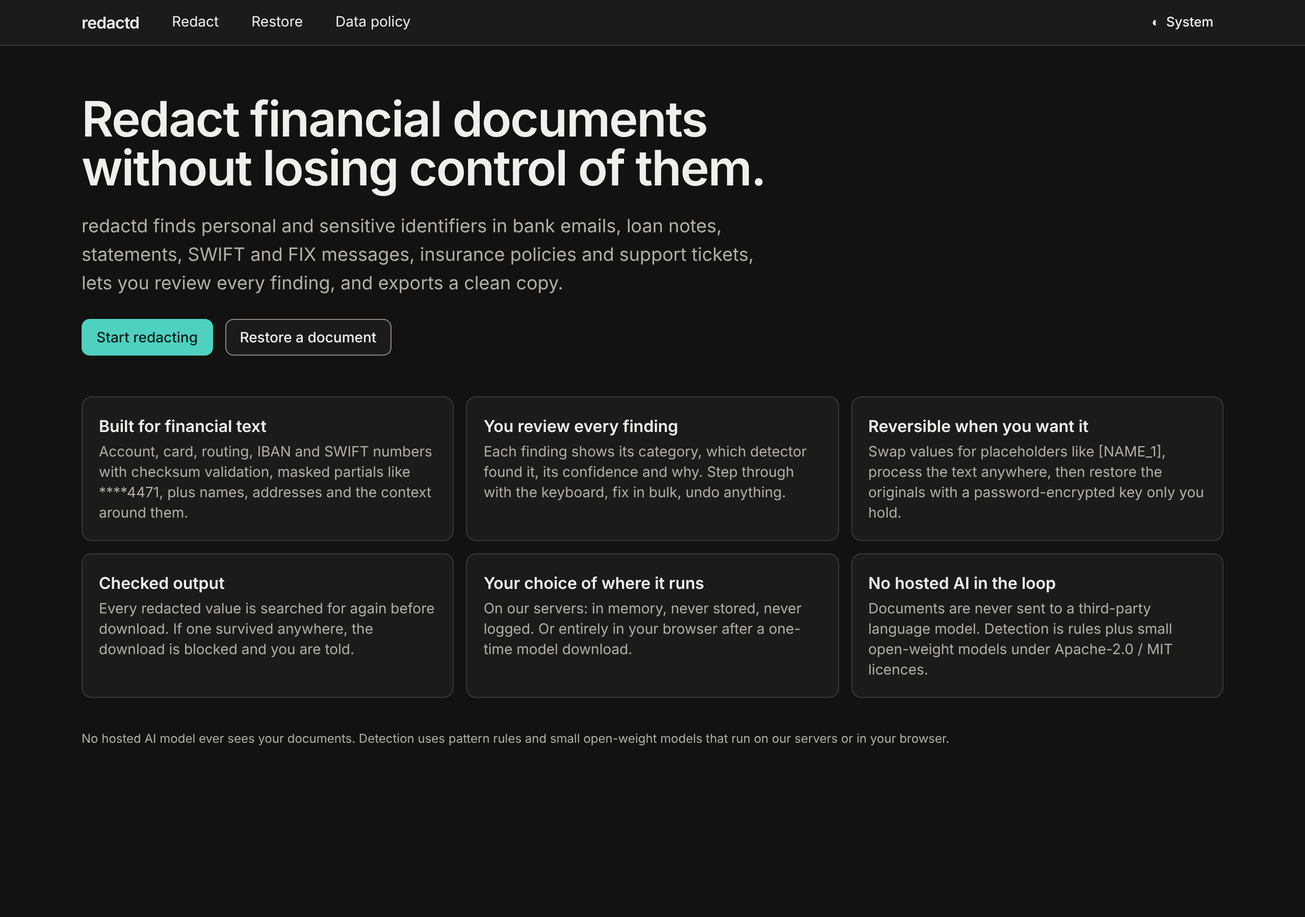
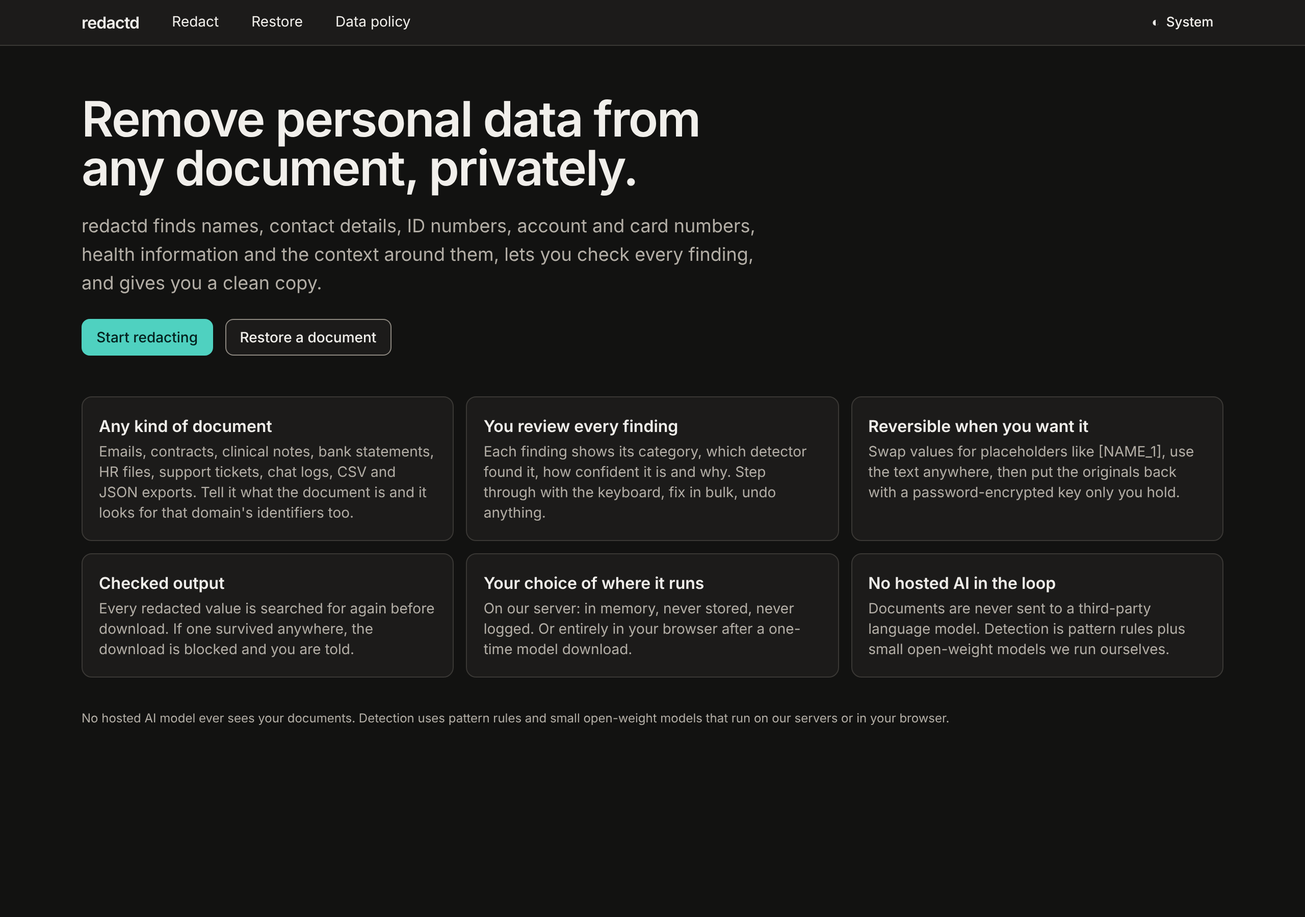
Layout B (minimal, drawers) becomes the only layout; Standard is the default mode; branding for any document
- /redact: one box and a Redact button. Options (mode, where it runs, policy, keep last 4, terms, sensitivity) open in
  a side drawer; review tools (categories, needs-review, values, add as / redact selection) in a second drawer;
  Download + Copy up front, style / report / output preview / restore key under More. Offline and
  server-unreachable notices moved into the options drawer.
- Default mode Standard (meets the 10 KB latency target; Thorough is opt-in).
- The search box takes focus the moment it opens (typed letters could otherwise trigger shortcuts).
- Landing page, metadata and README now present redactd for any kind of document.
- e2e: shared helpers (e2e/ui.cjs); flow, quality (axe on both drawers too), device and screenshot scripts updated.
Evidence: flow e2e PASS (Standard); quality e2e PASS (0 axe violations, 1 MB: 0 long tasks); 26 web unit tests.

Claude-Session: https://claude.ai/code/session_01PNEx6yyKuppzfPLfRrmmr8

diff --git a/apps/web/app/redact/page.tsx b/apps/web/app/redact/page.tsx
@@ -17,10 +17,9 @@ import { hasModel, modelMegabytes } from "../../lib/models";
 import type { DetectMode, OutputStyle, PiiType, ReviewSpan, Span, WorkerResponse } from "../../lib/types";
 import { Viewer, type ViewerHandle } from "../../components/Viewer";
 import { Sidebar } from "../../components/Sidebar";
-import { PolicyPanel } from "../../components/PolicyPanel";
-import { DataPanel, type Where } from "../../components/DataPanel";
+import type { Where } from "../../components/DataPanel";
 import { ShortcutOverlay } from "../../components/Shortcuts";
-import { Dialog, Progress, Segmented, Steps, Switch } from "../../components/ui";
+import { Dialog, Progress, Segmented, Switch } from "../../components/ui";
 import { PRESETS, parseTerms } from "../../lib/presets";
 
 const MAX_BYTES = 1_000_000;
@@ -43,14 +42,8 @@ export default function RedactPage() {
   // ---- document + settings
   const [text, setText] = useState("");
   const [fileName, setFileName] = useState("document.txt");
-  const [mode, setMode] = useState<DetectMode>("thorough");
-  // UI layout mock-ups (?layout=a|b|c). Without the parameter the page is unchanged. Remove once one is chosen.
-  const [layout, setLayout] = useState<"current" | "a" | "b" | "c">("current");
+  const [mode, setMode] = useState<DetectMode>("standard");   // Standard meets the latency target; Thorough is opt-in
   const [showOptions, setShowOptions] = useState(false), [showDetails, setShowDetails] = useState(false), [showMore, setShowMore] = useState(false);
-  useEffect(() => {
-    const l = new URLSearchParams(window.location.search).get("layout");
-    if (l === "a" || l === "b" || l === "c") { setLayout(l); if (l !== "c") setMode("standard"); }
-  }, []);
   const [where, setWhere] = useState<Where>("server");
   const [policy, setPolicyState] = useState<UserPolicy>(DEFAULT_POLICY);
   const [serverUp, setServerUp] = useState<boolean | null>(null);
@@ -242,23 +235,21 @@ export default function RedactPage() {
     catch { setError("Copying was blocked by the browser. Use Download instead."); }
   }
   const leakFail = !!leaks?.length;
-  const step: 1 | 2 | 3 = !scanned ? 1 : leaks !== null && !leakFail && accepted.length > 0 && review.past.length > 0 ? 3 : 2;
 
-  // ================================================================== building blocks (shared by every layout)
-  const minimal = layout === "a" || layout === "b";
+  // ================================================================== building blocks
   const dropZone = (
     <div onDragOver={(e) => { e.preventDefault(); setDragging(true); }} onDragLeave={() => setDragging(false)}
       onDrop={(e) => { e.preventDefault(); setDragging(false); const f = e.dataTransfer.files?.[0]; if (f) onFile(f); }}
-      className={minimal ? "rounded-xl border-2 border-dashed p-3 sm:p-4" : "rounded-lg border-2 border-dashed p-3 sm:p-4"}
+      className="rounded-xl border-2 border-dashed p-3 sm:p-4"
       style={{ borderColor: dragging ? "var(--accent)" : "var(--border-strong)", background: dragging ? "var(--accent-soft)" : undefined }}>
       <div className="flex flex-wrap items-center gap-3">
         <label className="btn cursor-pointer">
-          {minimal ? "Open file" : "Choose file"}
+          Open file
           <input type="file" className="sr-only" accept=".txt,.md,.csv,.tsv,.json,.jsonl,.log,.eml,.xml,.yaml,.yml,.html,.docx,.pdf,.msg,text/*"
             onChange={(e) => { const f = e.target.files?.[0]; if (f) onFile(f); e.target.value = ""; }} />
         </label>
-        <span className="text-sm muted">{minimal ? "or drop or paste" : "or drop a file here, or paste below"}</span>
-        {!text && <button type="button" className="btn btn-sm sm:ml-auto" onClick={() => resetDoc(SAMPLE_TEXT, SAMPLE_NAME)}>{minimal ? "Try a sample" : "Try the sample document"}</button>}
+        <span className="text-sm muted">or drop or paste</span>
+        {!text && <button type="button" className="btn btn-sm sm:ml-auto" onClick={() => resetDoc(SAMPLE_TEXT, SAMPLE_NAME)}>Try a sample</button>}
         {text && <span className="text-sm sm:ml-auto"><span className="font-medium">{fileName}</span> <span className="muted">· {text.length.toLocaleString("en")} characters</span>{" "}
           <button type="button" className="btn btn-ghost btn-sm" onClick={() => resetDoc("", "document.txt")}>Clear</button></span>}
       </div>
@@ -266,10 +257,9 @@ export default function RedactPage() {
         ? <pre className="mono mt-3 max-h-40 overflow-hidden rounded p-2 text-xs muted" style={{ background: "var(--surface-2)" }} aria-label="Start of the document">{text.slice(0, 1500)}…</pre>
         : <>
             <label htmlFor="doc" className="sr-only">Document text</label>
-            <textarea id="doc" className={`input mono mt-3 ${minimal ? "h-56" : "h-40"}`} placeholder="Paste a statement, email, loan note, SWIFT message, ticket…" value={text} spellCheck={false}
+            <textarea id="doc" className="input mono mt-3 h-56" placeholder="Paste an email, contract, clinical note, statement, chat log, ticket…" value={text} spellCheck={false}
               onChange={(e) => { setText(e.target.value.slice(0, MAX_BYTES)); setScan(null); }} />
           </>}
-      {!text && !minimal && <p className="mt-2 text-xs muted">New here? The sample is a fictional wire-recall email with names, an IBAN, a card number and an SSN. Nothing is uploaded until you press Scan.</p>}
     </div>
   );
   const attachAlert = attach && (
@@ -305,6 +295,10 @@ export default function RedactPage() {
         <Segmented label="Where to process" value={where} onChange={setWhere} options={[{ id: "server", label: "Our server" }, { id: "device", label: "This device" }]} />
         <span className="text-xs muted">{where === "server" ? "In memory, never stored or logged." : `Never leaves this tab. ${modelMb ? `One-time ${modelMb} MB download.` : ""}`}</span>
       </div>
+      {!online && <p className="alert alert-warn text-xs" role="status">You are offline. On-device processing still works if its model was downloaded before.</p>}
+      {online && where === "server" && serverUp === false && (
+        <p className="alert alert-warn text-xs" role="status">The redactd server is not reachable right now. <button type="button" className="link" onClick={() => setWhere("device")}>Process on this device instead</button>.</p>
+      )}
       <div className="flex flex-wrap items-center gap-3">
         <label htmlFor="preset" className="w-24 font-semibold">Policy</label>
         <select id="preset" className="input w-auto" value={policy.presetId} onChange={(e) => setPolicy({ ...policy, presetId: e.target.value })}>
@@ -322,6 +316,7 @@ export default function RedactPage() {
         <p className="mt-2 text-xs muted">Stored in this browser only; never sent to our servers.</p>
       </details>
       {sensitivity}
+      <p className="text-xs muted">Your policy, terms, review decisions, output and restore key stay in this browser. <a href="/privacy" className="link">Data policy</a></p>
     </div>
   );
   const optionsSummary = `${MODES.find((m) => m.id === mode)?.name} · ${where === "server" ? "our server" : "this device"} · ${presetById(policy.presetId).name}${policy.keepLast4 ? " · last 4 kept" : ""}`;
@@ -334,7 +329,7 @@ export default function RedactPage() {
   const searchForm = search !== null && (
     <form className="flex flex-1 items-center gap-2" style={{ minWidth: 220 }} onSubmit={(e) => { e.preventDefault(); doSearch(); }}>
       <label htmlFor="search" className="sr-only">Search the document and redact every match</label>
-      <input id="search" ref={searchBox} className="input" placeholder="Text to redact everywhere…" value={search} onChange={(e) => setSearch(e.target.value)} />
+      <input id="search" ref={searchBox} autoFocus className="input" placeholder="Text to redact everywhere…" value={search} onChange={(e) => setSearch(e.target.value)} />
       <button type="submit" className="btn btn-sm btn-primary" disabled={search.trim().length < 2}>Redact {search.trim().length >= 2 ? searchSpans(text, search, addType).length : 0} matches</button>
       <button type="button" className="btn btn-ghost btn-sm" onClick={() => setSearch(null)}>Close</button>
     </form>
@@ -370,7 +365,7 @@ export default function RedactPage() {
     </pre>
   );
   const styleSeg = <Segmented label="Output style" value={style} onChange={(s) => setStyleOverride(s)} options={[{ id: "placeholder", label: "Reversible [NAME_1]" }, { id: "label", label: "Labels [NAME]" }, { id: "block", label: "Blocks ████" }]} />;
-  const downloadBtn = result && <button type="button" className="btn btn-primary" disabled={leakFail || leaks === null} onClick={() => download(redactedName(fileName), result.output)}>{minimal ? "Download" : "Download redacted file"}</button>;
+  const downloadBtn = result && <button type="button" className="btn btn-primary" disabled={leakFail || leaks === null} onClick={() => download(redactedName(fileName), result.output)}>Download</button>;
   const copyBtn = <button type="button" className="btn" disabled={leakFail || leaks === null} onClick={copyOut}>{copied ? "Copied ✓" : "Copy"}</button>;
   const reportBtns = (<>
     <button type="button" className="btn" onClick={() => download(`${baseName(fileName)}.redaction-report.md`, reportMarkdown(report()), "text/markdown;charset=utf-8")}>Download report</button>
@@ -396,164 +391,72 @@ export default function RedactPage() {
   const announcer = <p className="sr-only" role="status" aria-live="polite">{announce}</p>;
   const shortcuts = help && <ShortcutOverlay onClose={() => setHelp(false)} />;
 
-  // ================================================================== layouts A and B: minimal
-  if (minimal) {
-    const drawer = layout === "b";
-    return (
-      <div className="mx-auto max-w-4xl space-y-4">
-        <div className="flex items-baseline gap-3">
-          <h1 className="text-2xl font-semibold tracking-tight">Redact</h1>
-          <p className="text-sm muted">Find and remove personal data. Up to 1 MB.</p>
-        </div>
-        {announcer}
-        <section className="space-y-3" aria-labelledby="h-input">
-          <h2 id="h-input" className="sr-only">Add a document</h2>
-          {dropZone}
-          {attachAlert}
-          <div className="flex flex-wrap items-center gap-3">
-            <button type="button" className="btn btn-ghost btn-sm" aria-expanded={showOptions} onClick={() => setShowOptions((v) => !v)}>
-              <span aria-hidden="true">{drawer ? "⚙" : showOptions ? "▾" : "▸"}</span> Options
-            </button>
-            <span className="text-xs muted">{optionsSummary}</span>
-            <span className="ml-auto">{scanButton(scanned ? "Redact again" : "Redact")}</span>
-          </div>
-          {!drawer && showOptions && <div className="card p-4">{compactOptions}</div>}
-          {status}
-        </section>
-
-        {scanned && (
-          <section aria-labelledby="h-review" className="space-y-2">
-            <div className="flex flex-wrap items-center gap-2">
-              <h2 id="h-review" className="text-base font-semibold">{accepted.length} of {spans.length} found items redacted</h2>
-              <span className="sr-only" data-testid="summary">{accepted.length} of {spans.length} findings will be redacted</span>
-              <div className="ml-auto flex flex-wrap items-center gap-2">
-                <button type="button" className="btn btn-sm" onClick={() => dispatch({ type: "undo" })} disabled={!review.past.length}>Undo</button>
-                <button type="button" className="btn btn-sm" aria-pressed={view === "diff"} onClick={() => setView(view === "diff" ? "review" : "diff")}>Compare</button>
-                {search === null && <button type="button" className="btn btn-sm" onClick={openSearch}>Find &amp; redact</button>}
-                <button type="button" className="btn btn-sm" aria-pressed={showDetails} onClick={() => setShowDetails((v) => !v)}>Details</button>
-                <button type="button" className="btn btn-ghost btn-sm" onClick={() => setHelp(true)} aria-label="Keyboard shortcuts">?</button>
-              </div>
-            </div>
-            {searchForm}
-            {diffHeader}
-            {!drawer && showDetails
-              ? <div className="grid grid-cols-[minmax(0,1fr)] gap-3 lg:grid-cols-[minmax(0,1fr)_300px]">{viewerEl}<div className="flex max-h-[640px] min-h-[280px] min-w-0 flex-col lg:h-[min(62vh,640px)]">{sidebarEl}</div></div>
-              : viewerEl}
-            {!drawer && showDetails && addRow}
-          </section>
-        )}
-
-        {scanned && result && (
-          <section ref={exportRef} className="card space-y-3 p-4" aria-labelledby="h-export">
-            <div className="flex flex-wrap items-center gap-2">
-              <h2 id="h-export" className="sr-only">Export</h2>
-              {downloadBtn}{copyBtn}
-              <button type="button" className="btn btn-ghost btn-sm" aria-expanded={showMore} onClick={() => setShowMore((v) => !v)}>{showMore ? "▾" : "▸"} More</button>
-              <span className="ml-auto">{leakBadge}</span>
-            </div>
-            {leakAlert}
-            {showMore && (
-              <div className="space-y-3 border-t pt-3" style={{ borderColor: "var(--border)" }}>
-                <div className="flex flex-wrap items-center gap-2">{styleSeg}{reportBtns}</div>
-                {outputPre("max-h-64")}
-                {restoreKey}
-              </div>
-            )}
-          </section>
-        )}
-
-        {drawer && showOptions && <Dialog title="Options" drawer onClose={() => setShowOptions(false)}>{compactOptions}</Dialog>}
-        {drawer && showDetails && scanned && (
-          <Dialog title="Findings" drawer onClose={() => setShowDetails(false)}>
-            <div className="space-y-3"><div className="flex h-[60vh] min-h-[320px] flex-col">{sidebarEl}</div>{addRow}</div>
-          </Dialog>
-        )}
-        {shortcuts}
-      </div>
-    );
-  }
-
-  // ================================================================== layout C (tidied) and the current layout
+  // ================================================================== layout (minimal; options and review tools in side drawers)
   return (
-    <div className="space-y-5">
-      <div className="flex flex-wrap items-end gap-x-6 gap-y-2">
-        <div>
-          <h1 className="text-2xl font-semibold tracking-tight">Redact a document</h1>
-          <p className="text-sm muted">Text, CSV, JSON, XML, EML, DOCX and text PDFs up to 1 MB.</p>
-        </div>
-        <div className="sm:ml-auto"><Steps current={step} /></div>
+    <div className="mx-auto max-w-4xl space-y-4">
+      <div className="flex items-baseline gap-3">
+        <h1 className="text-2xl font-semibold tracking-tight">Redact</h1>
+        <p className="text-sm muted">Find and remove personal data. Up to 1 MB.</p>
       </div>
       {announcer}
-
-      {/* ------------------------------------------------ 1. input */}
-      <section className="card space-y-5 p-4 sm:p-5" aria-labelledby="h-input">
+      <section className="space-y-3" aria-labelledby="h-input">
         <h2 id="h-input" className="sr-only">Add a document</h2>
         {dropZone}
         {attachAlert}
-        {layout === "c" ? compactOptions : (<>
-          <fieldset>
-            <legend className="label">Detection</legend>
-            <div role="radiogroup" aria-label="Detection mode" className="grid gap-2 sm:grid-cols-3">
-              {MODES.map((m) => (
-                <button key={m.id} type="button" role="radio" aria-checked={mode === m.id} className="choice" onClick={() => setMode(m.id)}>
-                  <div className="text-sm font-semibold">{m.name}</div><div className="text-xs muted">{m.note}</div>
-                </button>
-              ))}
-            </div>
-          </fieldset>
-          <DataPanel where={where} onChange={setWhere} serverUp={serverUp} online={online} modelMb={modelMb} />
-          <PolicyPanel policy={policy} onChange={setPolicy} />
-        </>)}
-        <div className="flex flex-wrap items-center gap-4">
-          {layout !== "c" && sensitivity}
-          <span className="ml-auto">{scanButton()}</span>
+        <div className="flex flex-wrap items-center gap-3">
+          <button type="button" className="btn btn-ghost btn-sm" aria-expanded={showOptions} onClick={() => setShowOptions((v) => !v)}>
+            <span aria-hidden="true">⚙</span> Options
+          </button>
+          <span className="text-xs muted">{optionsSummary}</span>
+          <span className="ml-auto">{scanButton(scanned ? "Redact again" : "Redact")}</span>
         </div>
         {status}
       </section>
 
-      {/* ------------------------------------------------ 2. review */}
       {scanned && (
-        <section aria-labelledby="h-review" className="space-y-3">
-          <div className="flex flex-wrap items-center gap-x-3 gap-y-2">
-            <h2 id="h-review" className="text-lg font-semibold">Review</h2>
-            <span className="text-sm muted" data-testid="summary">{accepted.length} of {spans.length} findings will be redacted{scan ? ` · scanned in ${(scan.ms / 1000).toFixed(1)} s` : ""}</span>
-            <div className="flex flex-wrap items-center gap-2 sm:ml-auto">
-              <Segmented label="View" value={view} onChange={setView} options={[{ id: "review", label: "Review" }, { id: "diff", label: "Side by side" }]} />
-              <button type="button" className="btn btn-sm" onClick={() => dispatch({ type: "undo" })} disabled={!review.past.length} aria-label="Undo">Undo</button>
-              <button type="button" className="btn btn-sm" onClick={() => dispatch({ type: "redo" })} disabled={!review.future.length} aria-label="Redo">Redo</button>
-              <button type="button" className="btn btn-sm" onClick={() => setHelp(true)} aria-label="Keyboard shortcuts">? Shortcuts</button>
+        <section aria-labelledby="h-review" className="space-y-2">
+          <div className="flex flex-wrap items-center gap-2">
+            <h2 id="h-review" className="text-base font-semibold">{accepted.length} of {spans.length} found items redacted</h2>
+            <span className="sr-only" data-testid="summary">{accepted.length} of {spans.length} findings will be redacted</span>
+            <div className="ml-auto flex flex-wrap items-center gap-2">
+              <button type="button" className="btn btn-sm" onClick={() => dispatch({ type: "undo" })} disabled={!review.past.length}>Undo</button>
+              <button type="button" className="btn btn-sm" aria-pressed={view === "diff"} onClick={() => setView(view === "diff" ? "review" : "diff")}>Compare</button>
+              {search === null && <button type="button" className="btn btn-sm" onClick={openSearch}>Find &amp; redact</button>}
+              <button type="button" className="btn btn-sm" aria-pressed={showDetails} onClick={() => setShowDetails((v) => !v)}>Details</button>
+              <button type="button" className="btn btn-ghost btn-sm" onClick={() => setHelp(true)} aria-label="Keyboard shortcuts">?</button>
             </div>
           </div>
-          {addRow}
+          {searchForm}
           {diffHeader}
-          <div className="grid grid-cols-[minmax(0,1fr)] gap-3 lg:grid-cols-[minmax(0,1fr)_300px]">
-            {viewerEl}
-            <div className="flex max-h-[640px] min-h-[280px] min-w-0 flex-col lg:h-[min(62vh,640px)]">{sidebarEl}</div>
-          </div>
-          {layout !== "c" && <p className="text-xs muted">Click a highlight to inspect it, click again (or press <span className="kbd">x</span>) to keep or redact it. <span className="kbd">j</span>/<span className="kbd">k</span> move between findings, <span className="kbd">/</span> searches, <span className="kbd">u</span> undoes, <span className="kbd">?</span> lists every shortcut.</p>}
+          {viewerEl}
         </section>
       )}
 
-      {/* ------------------------------------------------ 3. export */}
       {scanned && result && (
-        <section ref={exportRef} className="card space-y-4 p-4 sm:p-5" aria-labelledby="h-export">
-          <div className="flex flex-wrap items-center gap-3">
-            <h2 id="h-export" className="text-lg font-semibold">Export</h2>
-            {styleSeg}
-            <span className="sm:ml-auto">{leakBadge}</span>
+        <section ref={exportRef} className="card space-y-3 p-4" aria-labelledby="h-export">
+          <div className="flex flex-wrap items-center gap-2">
+            <h2 id="h-export" className="sr-only">Export</h2>
+            {downloadBtn}{copyBtn}
+            <button type="button" className="btn btn-ghost btn-sm" aria-expanded={showMore} onClick={() => setShowMore((v) => !v)}>{showMore ? "▾" : "▸"} More</button>
+            <span className="ml-auto">{leakBadge}</span>
           </div>
           {leakAlert}
-          {outputPre("max-h-64")}
-          <div className="flex flex-wrap items-center gap-2">
-            {downloadBtn}{copyBtn}
-            {layout === "c"
-              ? <button type="button" className="btn btn-ghost btn-sm" aria-expanded={showMore} onClick={() => setShowMore((v) => !v)}>{showMore ? "▾" : "▸"} Report and restore key</button>
-              : <>{reportBtns}<span className="text-xs muted">Saved as <span className="mono">{redactedName(fileName)}</span>. The report has counts only, never values.</span></>}
-          </div>
-          {layout === "c" ? showMore && <div className="space-y-3"><div className="flex flex-wrap gap-2">{reportBtns}</div>{restoreKey}</div> : restoreKey}
+          {showMore && (
+            <div className="space-y-3 border-t pt-3" style={{ borderColor: "var(--border)" }}>
+              <div className="flex flex-wrap items-center gap-2">{styleSeg}{reportBtns}</div>
+              {outputPre("max-h-64")}
+              {restoreKey}
+            </div>
+          )}
         </section>
       )}
 
+      {showOptions && <Dialog title="Options" drawer onClose={() => setShowOptions(false)}>{compactOptions}</Dialog>}
+      {showDetails && scanned && (
+        <Dialog title="Findings" drawer onClose={() => setShowDetails(false)}>
+          <div className="space-y-3"><div className="flex h-[60vh] min-h-[320px] flex-col">{sidebarEl}</div>{addRow}</div>
+        </Dialog>
+      )}
       {shortcuts}
     </div>
   );

diff --git a/apps/web/app/page.tsx b/apps/web/app/page.tsx
@@ -1,22 +1,22 @@
 import Link from "next/link";
 
 const points: [string, string][] = [
-  ["Built for financial text", "Account, card, routing, IBAN and SWIFT numbers with checksum validation, masked partials like ****4471, plus names, addresses and the context around them."],
-  ["You review every finding", "Each finding shows its category, which detector found it, its confidence and why. Step through with the keyboard, fix in bulk, undo anything."],
-  ["Reversible when you want it", "Swap values for placeholders like [NAME_1], process the text anywhere, then restore the originals with a password-encrypted key only you hold."],
+  ["Any kind of document", "Emails, contracts, clinical notes, bank statements, HR files, support tickets, chat logs, CSV and JSON exports. Tell it what the document is and it looks for that domain's identifiers too."],
+  ["You review every finding", "Each finding shows its category, which detector found it, how confident it is and why. Step through with the keyboard, fix in bulk, undo anything."],
+  ["Reversible when you want it", "Swap values for placeholders like [NAME_1], use the text anywhere, then put the originals back with a password-encrypted key only you hold."],
   ["Checked output", "Every redacted value is searched for again before download. If one survived anywhere, the download is blocked and you are told."],
-  ["Your choice of where it runs", "On our servers: in memory, never stored, never logged. Or entirely in your browser after a one-time model download."],
-  ["No hosted AI in the loop", "Documents are never sent to a third-party language model. Detection is rules plus small open-weight models under Apache-2.0 / MIT licences."],
+  ["Your choice of where it runs", "On our server: in memory, never stored, never logged. Or entirely in your browser after a one-time model download."],
+  ["No hosted AI in the loop", "Documents are never sent to a third-party language model. Detection is pattern rules plus small open-weight models we run ourselves."],
 ];
 
 export default function Home() {
   return (
     <div className="space-y-10">
       <section className="max-w-2xl space-y-5 pt-4">
-        <h1 className="text-3xl font-semibold tracking-tight sm:text-5xl">Redact financial documents without losing control of them.</h1>
+        <h1 className="text-3xl font-semibold tracking-tight sm:text-5xl">Remove personal data from any document, privately.</h1>
         <p className="text-base muted sm:text-lg">
-          redactd finds personal and sensitive identifiers in bank emails, loan notes, statements, SWIFT and FIX messages, insurance policies and support tickets,
-          lets you review every finding, and exports a clean copy.
+          redactd finds names, contact details, ID numbers, account and card numbers, health information and the context around them,
+          lets you check every finding, and gives you a clean copy.
         </p>
         <div className="flex flex-wrap gap-3">
           <Link href="/redact" className="btn btn-primary">Start redacting</Link>

diff --git a/apps/web/app/layout.tsx b/apps/web/app/layout.tsx
@@ -4,8 +4,8 @@ import "./globals.css";
 import { ThemeToggle } from "../components/ui";
 
 export const metadata: Metadata = {
-  title: "redactd — private redaction for financial documents",
-  description: "Find and redact personal and financial identifiers in statements, emails, SWIFT messages and tickets. Review every finding. Optionally reversible.",
+  title: "redactd — private redaction for any document",
+  description: "Find and remove personal data from any document: emails, contracts, clinical notes, statements, chat logs and tickets. Review every finding. Optionally reversible.",
 };
 // Pages are rendered per request so Next can stamp the CSP nonce (middleware.ts) on its bootstrap scripts.
 export const dynamic = "force-dynamic";

diff --git a/README.md b/README.md
@@ -1,7 +1,8 @@
 # redactd
 
-Privacy-first redaction for unstructured financial text: bank emails, loan notes, statements, SWIFT/FIX/EDI
-messages, insurance policies and support tickets, up to 1 MB. redactd finds personal and sensitive identifiers,
+Privacy-first redaction for any text document up to 1 MB: emails, contracts, clinical notes, bank statements,
+SWIFT/FIX/EDI messages, HR files, support tickets and chat logs. Domain bundles (Financial, Medical, ...) add the
+identifiers specific to a kind of document on top of the general detectors. redactd finds personal and sensitive identifiers,
 lets the user review every finding, and exports a redacted copy. Redaction is optionally reversible: placeholders
 such as `[NAME_1]` plus a password-encrypted restore key that never leaves the browser.
 
